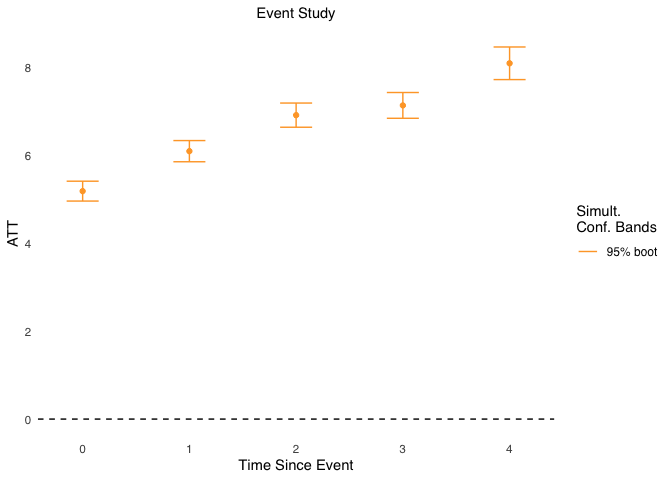
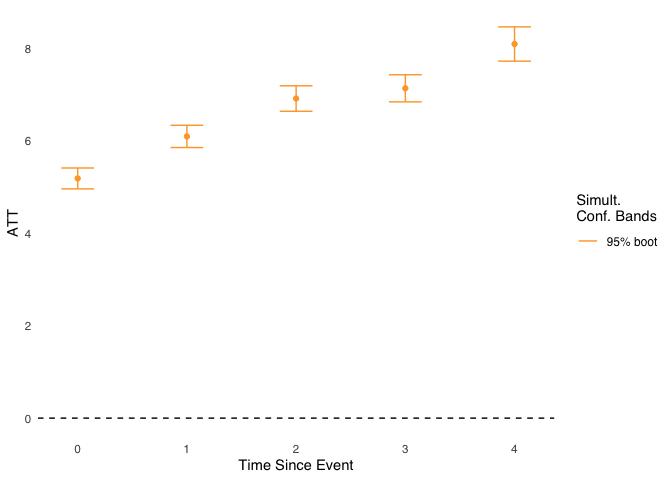
updated README

diff --git a/README.md b/README.md
@@ -67,14 +67,12 @@ plot_edid(edid_results, mod_type = "es")
 <img src="man/figures/README-unnamed-chunk-2-1.png" width="100%" />
 
 The plots can be customized in a number of ways, including the
-confidence intervals to plot, color scheme, point and line sizes, text
-sizes, font and more. You can also save the plot result and customize it
-further with your own {ggplot2} pipeline. The plot below shows the
-result of requesting a plot for the full set of $ATT(g,t)$ results and
-all confidence intervals with thicker vertical error bar lines, larger
-points, and smaller text size than the defaults. (I increase the
-confidence interval size in the example to provide a more demonstrative
-plot.)
+confidence intervals to plot, color scheme, titles, point and line
+sizes, text sizes, and font. You can also save the plot result and
+customize it further with your own {ggplot2} pipeline. The plot below
+shows the full set of $ATT(g,t)$ results and all confidence intervals
+with some appearance customizations. (I increase the confidence interval
+size in the example to provide a more demonstrative plot.)
 
 ``` r
 # Increase the size of CIs
